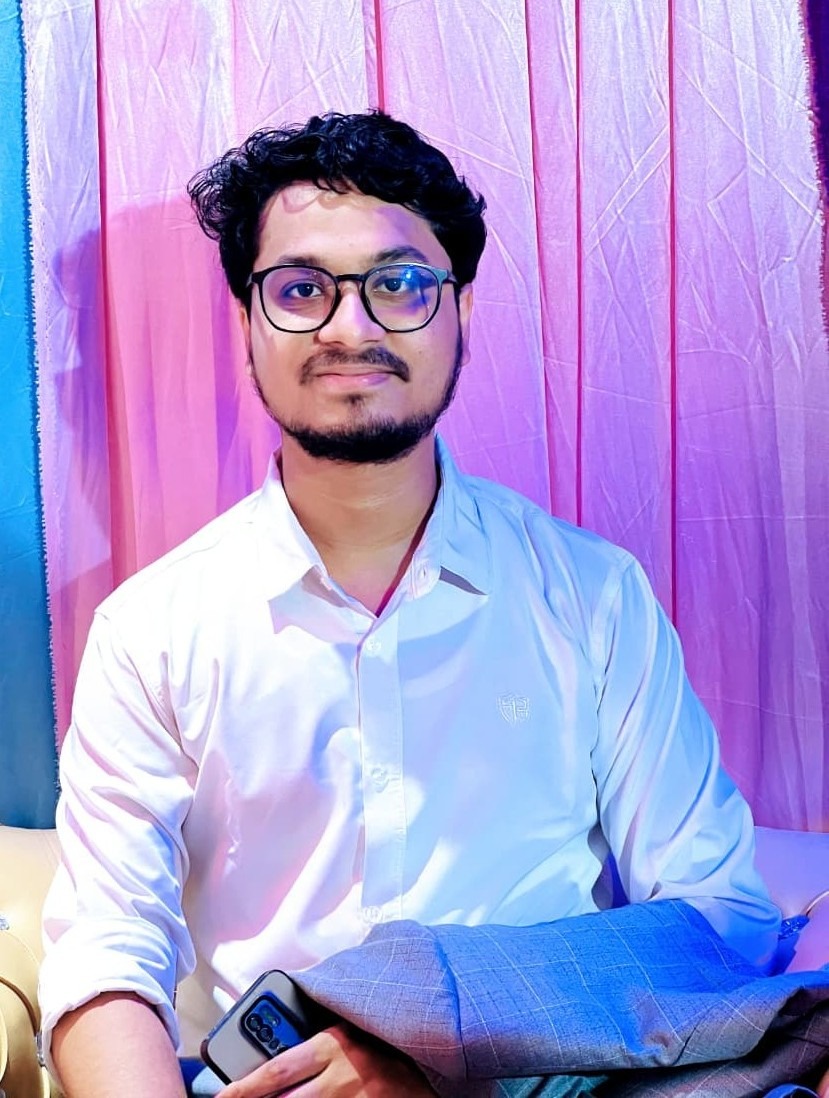
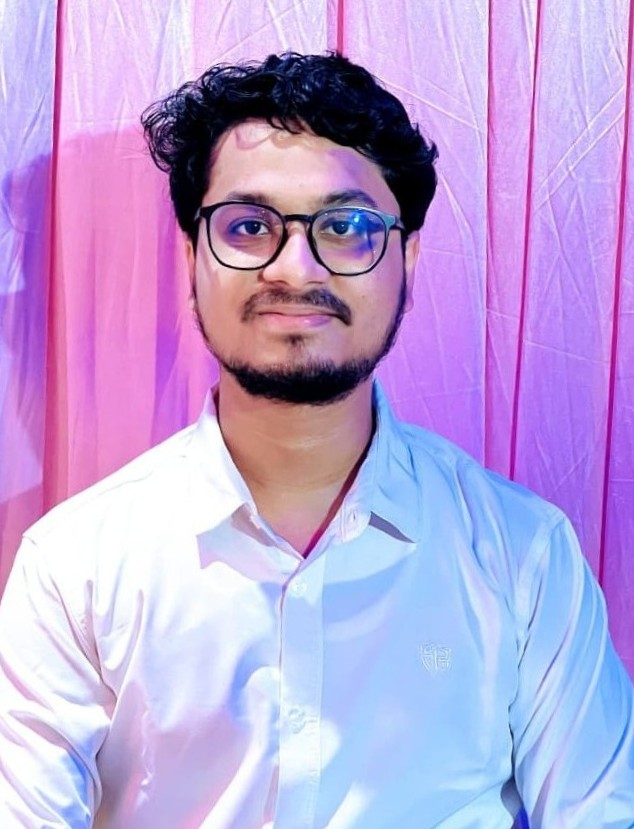
some changes

diff --git a/src/components/About/About.js b/src/components/About/About.js
@@ -51,7 +51,7 @@ const About = () => {
                 <img
                   src={img}
                   alt="Shoriful Habib"
-                  className="w-full h-auto object-cover transform group-hover:scale-105 transition-transform duration-700"
+                  className="w-full h-[530px] object-cover transform group-hover:scale-105 transition-transform duration-700"
                 />
                 <div className="p-8 text-center sm:text-left">
                   <h3 className="text-3xl font-bold mb-1">Shoriful Habib</h3>
@@ -153,14 +153,18 @@ const About = () => {
                 </p>
               </div>
               <div className="p-6 bg-theme-sec-alpha backdrop-blur-sm border border-theme rounded-2xl hover:border-[#44A076]/30 transition-colors">
-                <h4 className="font-bold text-theme-primary mb-2">Current Role</h4>
+                <h4 className="font-bold text-theme-primary mb-2">
+                  Current Role
+                </h4>
                 <p className="text-sm text-[#44A076] font-semibold mb-1">
                   Software Engineer
                 </p>
                 <p className="text-xs text-gray-500 mb-2">
                   BRAC IT Services Limited
                 </p>
-                <p className="text-sm text-theme-secondary">April 2024 – Present</p>
+                <p className="text-sm text-theme-secondary">
+                  April 2024 – Present
+                </p>
               </div>
             </div>
 

diff --git a/src/components/Contacts/Contacts.js b/src/components/Contacts/Contacts.js
@@ -90,7 +90,7 @@ const Contacts = () => {
                     Phone
                   </h4>
                   <p className="text-theme-primary font-medium hover:text-[#44A076] transition-colors">
-                    +8801234567890
+                    +8801612939235
                   </p>
                 </div>
               </div>